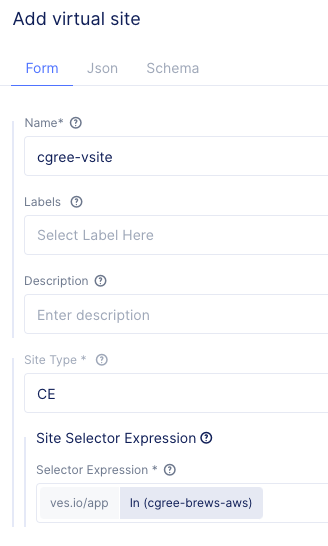
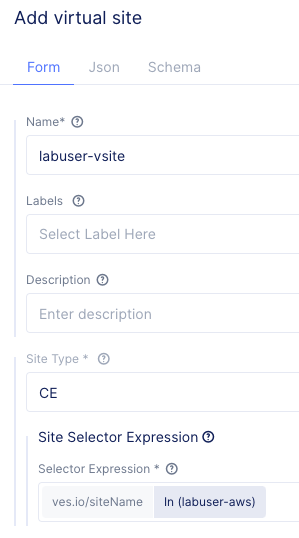
state2/vsite tagging Fixes #48

diff --git a/application/docs/state3/vsite.rst b/application/docs/state3/vsite.rst
@@ -22,8 +22,8 @@ Exercise 1: Tag AWS Site
 
 #. Under *Labels*, click the *More* link 
 #. Click in the Labels box:
-    #. For the *key*, choose *ves.io/app*
-    #. For the Value, type the name of your AWS VPC Site name
+    #. For the *key*, choose *ves.io/siteName*
+    #. For the Value, type your_namespace-aws
 
         |aws_vpc_site_label|
 
@@ -51,7 +51,7 @@ Exercise 2: Create Virtual Site
     ============================== =====
     Name                            your_namespace-vsite
     Site Type                       CE
-    Site Selector Expression Key    ves.io/app
+    Site Selector Expression Key    ves.io/siteName
     Site Selector Expression Value  your AWS VPC Site name
     ============================== =====
 
